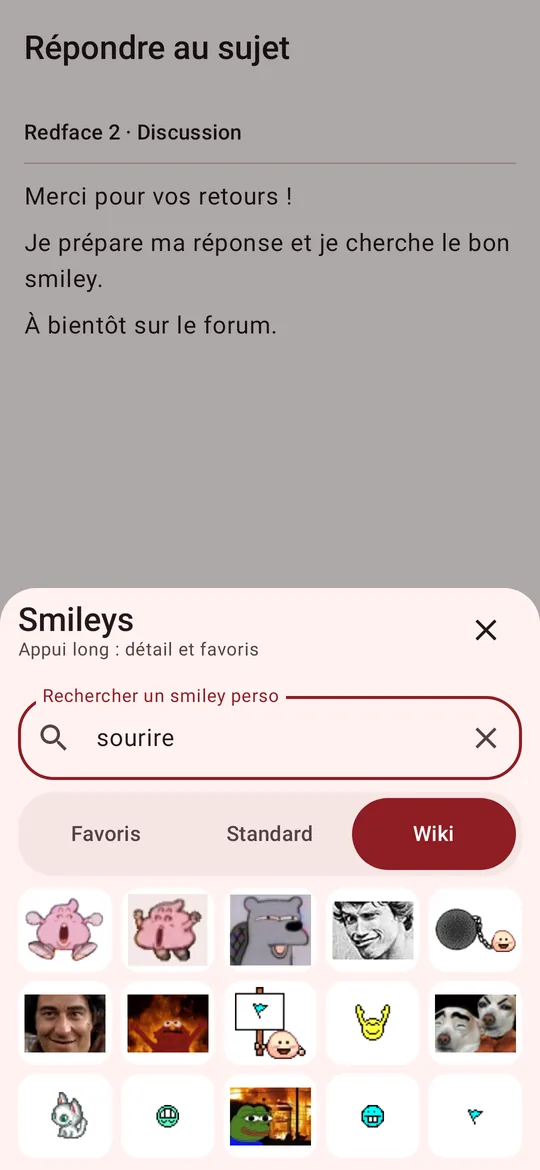
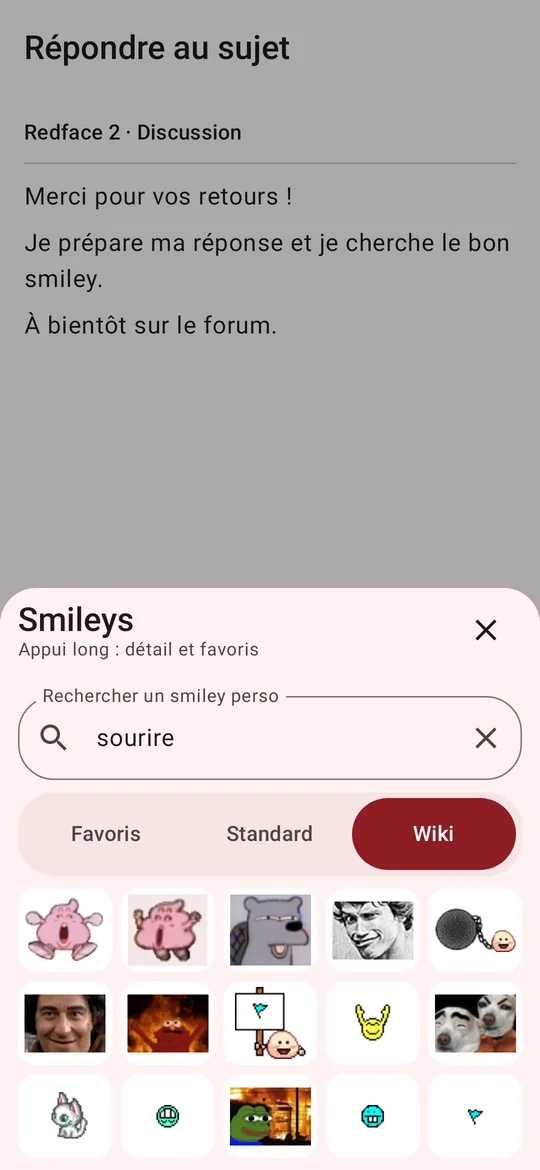
editeur-smileys: Sol complete, 12 scenarios; index card updated (#1417)
Claude-Session: https://claude.ai/code/session_01X7pvomKHW15zFqZ5T6WA6a

diff --git a/editeur-smileys/index.html b/editeur-smileys/index.html
@@ -71,7 +71,7 @@ a:focus-visible,summary:focus-visible{outline:2px solid var(--accent);outline-of
 </ul>
 <h4>Effort pour la production</h4>
 <p>Moyen, environ deux jours : retirer ou rebrancher le réglage « délimitation » et <code>SmileyPickerGrid</code> (spike #989), figer les tailles des builtins en constante plutôt qu&#x27;en sonde, revue TalkBack de la barre, <code>/validate</code> complet, passage S10e, paysage, fontScale 1,3 et AMOLED.</p></div></details></article>
-<article class="author" id="a-sol"><header><h3>Sol 6.1</h3><span class="model">GPT-6.1 Sol</span></header><p class="idea">Une palette de petites cartes, avec la recherche toujours à portée de doigt et les usages fréquents en tête.</p><p class="status">Compile ; 7 scénarios sur 10 : dans le banc, la grille Favoris de cette proposition sort à hauteur nulle (défaut du prototype), d&#x27;où l&#x27;absence de Favoris et du détail.</p><details><summary>Note de conception</summary><div class="note"><p>Une palette de petites cartes, avec la recherche toujours à portée de doigt et les usages fréquents en tête.</p>
+<article class="author" id="a-sol"><header><h3>Sol 6.1</h3><span class="model">GPT-6.1 Sol</span></header><p class="idea">Une palette de petites cartes, avec la recherche toujours à portée de doigt et les usages fréquents en tête.</p><p class="status">Compile ; 12 scénarios rendus ; tous les tests du sélecteur passent (4 fichiers adaptés par Sol). Rendu complété par Opus : le champ de recherche, focalisé à l&#x27;ouverture, basculait la feuille sur Wiki ; seul un toucher ou une saisie choisit désormais Wiki.</p><details><summary>Note de conception</summary><div class="note"><p>Une palette de petites cartes, avec la recherche toujours à portée de doigt et les usages fréquents en tête.</p>
 <ul>
 <li>En-tête nommé, conseil d’appui long et fermeture explicite de 48 dp.</li>
 <li>Recherche permanente, puis trois collections en capsules : Favoris, Standard, Wiki.</li>
@@ -176,16 +176,16 @@ a:focus-visible,summary:focus-visible{outline:2px solid var(--accent);outline-of
 <li>Effort estimé : 2 à 3 jours après choix visuel, pour tests appareil/IME/accessibilité, ajustements issus des captures, traduction des libellés et validation complète du dépôt.</li>
 </ul></div></details></article></div></section>
 <nav class="jump" aria-label="Scénarios"><a href="#s-01">01</a><a href="#s-02">02</a><a href="#s-03">03</a><a href="#s-04">04</a><a href="#s-05">05</a><a href="#s-06">06</a><a href="#s-07">07</a><a href="#s-08">08</a><a href="#s-09">09</a><a href="#s-10">10</a><a href="#extras">+</a></nav>
-<section class="scenario" id="s-01"><h3><span class="num">01</span> Favoris, clair</h3><div class="strip"><figure><a href="img/baseline/01_favoris_light.webp"><img src="img/baseline/01_favoris_light.webp" width="540" height="1170" loading="lazy" alt="Base : Favoris, clair"></a><figcaption>Base</figcaption></figure><figure><a href="img/opus/01_favoris_light.webp"><img src="img/opus/01_favoris_light.webp" width="540" height="1170" loading="lazy" alt="Opus 5.5 : Favoris, clair"></a><figcaption>Opus 5.5</figcaption></figure><figure class="missing"><div>non rendu</div><figcaption>Sol 6.1</figcaption></figure><figure><a href="img/fable/01_favoris_light.webp"><img src="img/fable/01_favoris_light.webp" width="540" height="1170" loading="lazy" alt="Fable : Favoris, clair"></a><figcaption>Fable</figcaption></figure><figure><a href="img/astra/01_favoris_light.webp"><img src="img/astra/01_favoris_light.webp" width="540" height="1170" loading="lazy" alt="Astra : Favoris, clair"></a><figcaption>Astra</figcaption></figure></div></section>
+<section class="scenario" id="s-01"><h3><span class="num">01</span> Favoris, clair</h3><div class="strip"><figure><a href="img/baseline/01_favoris_light.webp"><img src="img/baseline/01_favoris_light.webp" width="540" height="1170" loading="lazy" alt="Base : Favoris, clair"></a><figcaption>Base</figcaption></figure><figure><a href="img/opus/01_favoris_light.webp"><img src="img/opus/01_favoris_light.webp" width="540" height="1170" loading="lazy" alt="Opus 5.5 : Favoris, clair"></a><figcaption>Opus 5.5</figcaption></figure><figure><a href="img/sol/01_favoris_light.webp"><img src="img/sol/01_favoris_light.webp" width="540" height="1170" loading="lazy" alt="Sol 6.1 : Favoris, clair"></a><figcaption>Sol 6.1</figcaption></figure><figure><a href="img/fable/01_favoris_light.webp"><img src="img/fable/01_favoris_light.webp" width="540" height="1170" loading="lazy" alt="Fable : Favoris, clair"></a><figcaption>Fable</figcaption></figure><figure><a href="img/astra/01_favoris_light.webp"><img src="img/astra/01_favoris_light.webp" width="540" height="1170" loading="lazy" alt="Astra : Favoris, clair"></a><figcaption>Astra</figcaption></figure></div></section>
 <section class="scenario" id="s-02"><h3><span class="num">02</span> Standard, clair</h3><div class="strip"><figure><a href="img/baseline/02_standard_light.webp"><img src="img/baseline/02_standard_light.webp" width="540" height="1170" loading="lazy" alt="Base : Standard, clair"></a><figcaption>Base</figcaption></figure><figure><a href="img/opus/02_standard_light.webp"><img src="img/opus/02_standard_light.webp" width="540" height="1170" loading="lazy" alt="Opus 5.5 : Standard, clair"></a><figcaption>Opus 5.5</figcaption></figure><figure><a href="img/sol/02_standard_light.webp"><img src="img/sol/02_standard_light.webp" width="540" height="1170" loading="lazy" alt="Sol 6.1 : Standard, clair"></a><figcaption>Sol 6.1</figcaption></figure><figure><a href="img/fable/02_standard_light.webp"><img src="img/fable/02_standard_light.webp" width="540" height="1170" loading="lazy" alt="Fable : Standard, clair"></a><figcaption>Fable</figcaption></figure><figure><a href="img/astra/02_standard_light.webp"><img src="img/astra/02_standard_light.webp" width="540" height="1170" loading="lazy" alt="Astra : Standard, clair"></a><figcaption>Astra</figcaption></figure></div></section>
 <section class="scenario" id="s-03"><h3><span class="num">03</span> Recherche avec résultats, clair</h3><div class="strip"><figure><a href="img/baseline/03_wiki_results_light.webp"><img src="img/baseline/03_wiki_results_light.webp" width="540" height="1170" loading="lazy" alt="Base : Recherche avec résultats, clair"></a><figcaption>Base</figcaption></figure><figure><a href="img/opus/03_wiki_results_light.webp"><img src="img/opus/03_wiki_results_light.webp" width="540" height="1170" loading="lazy" alt="Opus 5.5 : Recherche avec résultats, clair"></a><figcaption>Opus 5.5</figcaption></figure><figure><a href="img/sol/03_wiki_results_light.webp"><img src="img/sol/03_wiki_results_light.webp" width="540" height="1170" loading="lazy" alt="Sol 6.1 : Recherche avec résultats, clair"></a><figcaption>Sol 6.1</figcaption></figure><figure><a href="img/fable/03_wiki_results_light.webp"><img src="img/fable/03_wiki_results_light.webp" width="540" height="1170" loading="lazy" alt="Fable : Recherche avec résultats, clair"></a><figcaption>Fable</figcaption></figure><figure><a href="img/astra/03_wiki_results_light.webp"><img src="img/astra/03_wiki_results_light.webp" width="540" height="1170" loading="lazy" alt="Astra : Recherche avec résultats, clair"></a><figcaption>Astra</figcaption></figure></div></section>
 <section class="scenario" id="s-04"><h3><span class="num">04</span> Recherche vide, clair</h3><div class="strip"><figure><a href="img/baseline/04_wiki_empty_light.webp"><img src="img/baseline/04_wiki_empty_light.webp" width="540" height="1170" loading="lazy" alt="Base : Recherche vide, clair"></a><figcaption>Base</figcaption></figure><figure><a href="img/opus/04_wiki_empty_light.webp"><img src="img/opus/04_wiki_empty_light.webp" width="540" height="1170" loading="lazy" alt="Opus 5.5 : Recherche vide, clair"></a><figcaption>Opus 5.5</figcaption></figure><figure><a href="img/sol/04_wiki_empty_light.webp"><img src="img/sol/04_wiki_empty_light.webp" width="540" height="1170" loading="lazy" alt="Sol 6.1 : Recherche vide, clair"></a><figcaption>Sol 6.1</figcaption></figure><figure><a href="img/fable/04_wiki_empty_light.webp"><img src="img/fable/04_wiki_empty_light.webp" width="540" height="1170" loading="lazy" alt="Fable : Recherche vide, clair"></a><figcaption>Fable</figcaption></figure><figure><a href="img/astra/04_wiki_empty_light.webp"><img src="img/astra/04_wiki_empty_light.webp" width="540" height="1170" loading="lazy" alt="Astra : Recherche vide, clair"></a><figcaption>Astra</figcaption></figure></div></section>
-<section class="scenario" id="s-05"><h3><span class="num">05</span> Favoris, sombre</h3><div class="strip"><figure><a href="img/baseline/05_favoris_dark.webp"><img src="img/baseline/05_favoris_dark.webp" width="540" height="1170" loading="lazy" alt="Base : Favoris, sombre"></a><figcaption>Base</figcaption></figure><figure><a href="img/opus/05_favoris_dark.webp"><img src="img/opus/05_favoris_dark.webp" width="540" height="1170" loading="lazy" alt="Opus 5.5 : Favoris, sombre"></a><figcaption>Opus 5.5</figcaption></figure><figure class="missing"><div>non rendu</div><figcaption>Sol 6.1</figcaption></figure><figure><a href="img/fable/05_favoris_dark.webp"><img src="img/fable/05_favoris_dark.webp" width="540" height="1170" loading="lazy" alt="Fable : Favoris, sombre"></a><figcaption>Fable</figcaption></figure><figure><a href="img/astra/05_favoris_dark.webp"><img src="img/astra/05_favoris_dark.webp" width="540" height="1170" loading="lazy" alt="Astra : Favoris, sombre"></a><figcaption>Astra</figcaption></figure></div></section>
+<section class="scenario" id="s-05"><h3><span class="num">05</span> Favoris, sombre</h3><div class="strip"><figure><a href="img/baseline/05_favoris_dark.webp"><img src="img/baseline/05_favoris_dark.webp" width="540" height="1170" loading="lazy" alt="Base : Favoris, sombre"></a><figcaption>Base</figcaption></figure><figure><a href="img/opus/05_favoris_dark.webp"><img src="img/opus/05_favoris_dark.webp" width="540" height="1170" loading="lazy" alt="Opus 5.5 : Favoris, sombre"></a><figcaption>Opus 5.5</figcaption></figure><figure><a href="img/sol/05_favoris_dark.webp"><img src="img/sol/05_favoris_dark.webp" width="540" height="1170" loading="lazy" alt="Sol 6.1 : Favoris, sombre"></a><figcaption>Sol 6.1</figcaption></figure><figure><a href="img/fable/05_favoris_dark.webp"><img src="img/fable/05_favoris_dark.webp" width="540" height="1170" loading="lazy" alt="Fable : Favoris, sombre"></a><figcaption>Fable</figcaption></figure><figure><a href="img/astra/05_favoris_dark.webp"><img src="img/astra/05_favoris_dark.webp" width="540" height="1170" loading="lazy" alt="Astra : Favoris, sombre"></a><figcaption>Astra</figcaption></figure></div></section>
 <section class="scenario" id="s-06"><h3><span class="num">06</span> Standard, sombre</h3><div class="strip"><figure><a href="img/baseline/06_standard_dark.webp"><img src="img/baseline/06_standard_dark.webp" width="540" height="1170" loading="lazy" alt="Base : Standard, sombre"></a><figcaption>Base</figcaption></figure><figure><a href="img/opus/06_standard_dark.webp"><img src="img/opus/06_standard_dark.webp" width="540" height="1170" loading="lazy" alt="Opus 5.5 : Standard, sombre"></a><figcaption>Opus 5.5</figcaption></figure><figure><a href="img/sol/06_standard_dark.webp"><img src="img/sol/06_standard_dark.webp" width="540" height="1170" loading="lazy" alt="Sol 6.1 : Standard, sombre"></a><figcaption>Sol 6.1</figcaption></figure><figure><a href="img/fable/06_standard_dark.webp"><img src="img/fable/06_standard_dark.webp" width="540" height="1170" loading="lazy" alt="Fable : Standard, sombre"></a><figcaption>Fable</figcaption></figure><figure><a href="img/astra/06_standard_dark.webp"><img src="img/astra/06_standard_dark.webp" width="540" height="1170" loading="lazy" alt="Astra : Standard, sombre"></a><figcaption>Astra</figcaption></figure></div></section>
 <section class="scenario" id="s-07"><h3><span class="num">07</span> Recherche avec résultats, sombre</h3><div class="strip"><figure><a href="img/baseline/07_wiki_results_dark.webp"><img src="img/baseline/07_wiki_results_dark.webp" width="540" height="1170" loading="lazy" alt="Base : Recherche avec résultats, sombre"></a><figcaption>Base</figcaption></figure><figure><a href="img/opus/07_wiki_results_dark.webp"><img src="img/opus/07_wiki_results_dark.webp" width="540" height="1170" loading="lazy" alt="Opus 5.5 : Recherche avec résultats, sombre"></a><figcaption>Opus 5.5</figcaption></figure><figure><a href="img/sol/07_wiki_results_dark.webp"><img src="img/sol/07_wiki_results_dark.webp" width="540" height="1170" loading="lazy" alt="Sol 6.1 : Recherche avec résultats, sombre"></a><figcaption>Sol 6.1</figcaption></figure><figure><a href="img/fable/07_wiki_results_dark.webp"><img src="img/fable/07_wiki_results_dark.webp" width="540" height="1170" loading="lazy" alt="Fable : Recherche avec résultats, sombre"></a><figcaption>Fable</figcaption></figure><figure><a href="img/astra/07_wiki_results_dark.webp"><img src="img/astra/07_wiki_results_dark.webp" width="540" height="1170" loading="lazy" alt="Astra : Recherche avec résultats, sombre"></a><figcaption>Astra</figcaption></figure></div></section>
-<section class="scenario" id="s-08"><h3><span class="num">08</span> Favoris, texte à 130 %</h3><div class="strip"><figure><a href="img/baseline/08_favoris_fs13_light.webp"><img src="img/baseline/08_favoris_fs13_light.webp" width="540" height="1170" loading="lazy" alt="Base : Favoris, texte à 130 %"></a><figcaption>Base</figcaption></figure><figure><a href="img/opus/08_favoris_fs13_light.webp"><img src="img/opus/08_favoris_fs13_light.webp" width="540" height="1170" loading="lazy" alt="Opus 5.5 : Favoris, texte à 130 %"></a><figcaption>Opus 5.5</figcaption></figure><figure class="missing"><div>non rendu</div><figcaption>Sol 6.1</figcaption></figure><figure><a href="img/fable/08_favoris_fs13_light.webp"><img src="img/fable/08_favoris_fs13_light.webp" width="540" height="1170" loading="lazy" alt="Fable : Favoris, texte à 130 %"></a><figcaption>Fable</figcaption></figure><figure><a href="img/astra/08_favoris_fs13_light.webp"><img src="img/astra/08_favoris_fs13_light.webp" width="540" height="1170" loading="lazy" alt="Astra : Favoris, texte à 130 %"></a><figcaption>Astra</figcaption></figure></div></section>
+<section class="scenario" id="s-08"><h3><span class="num">08</span> Favoris, texte à 130 %</h3><div class="strip"><figure><a href="img/baseline/08_favoris_fs13_light.webp"><img src="img/baseline/08_favoris_fs13_light.webp" width="540" height="1170" loading="lazy" alt="Base : Favoris, texte à 130 %"></a><figcaption>Base</figcaption></figure><figure><a href="img/opus/08_favoris_fs13_light.webp"><img src="img/opus/08_favoris_fs13_light.webp" width="540" height="1170" loading="lazy" alt="Opus 5.5 : Favoris, texte à 130 %"></a><figcaption>Opus 5.5</figcaption></figure><figure><a href="img/sol/08_favoris_fs13_light.webp"><img src="img/sol/08_favoris_fs13_light.webp" width="540" height="1170" loading="lazy" alt="Sol 6.1 : Favoris, texte à 130 %"></a><figcaption>Sol 6.1</figcaption></figure><figure><a href="img/fable/08_favoris_fs13_light.webp"><img src="img/fable/08_favoris_fs13_light.webp" width="540" height="1170" loading="lazy" alt="Fable : Favoris, texte à 130 %"></a><figcaption>Fable</figcaption></figure><figure><a href="img/astra/08_favoris_fs13_light.webp"><img src="img/astra/08_favoris_fs13_light.webp" width="540" height="1170" loading="lazy" alt="Astra : Favoris, texte à 130 %"></a><figcaption>Astra</figcaption></figure></div></section>
 <section class="scenario land" id="s-09"><h3><span class="num">09</span> Standard, paysage</h3><div class="strip"><figure><a href="img/baseline/09_standard_landscape_light.webp"><img src="img/baseline/09_standard_landscape_light.webp" width="540" height="249" loading="lazy" alt="Base : Standard, paysage"></a><figcaption>Base</figcaption></figure><figure><a href="img/opus/09_standard_landscape_light.webp"><img src="img/opus/09_standard_landscape_light.webp" width="540" height="249" loading="lazy" alt="Opus 5.5 : Standard, paysage"></a><figcaption>Opus 5.5</figcaption></figure><figure><a href="img/sol/09_standard_landscape_light.webp"><img src="img/sol/09_standard_landscape_light.webp" width="540" height="249" loading="lazy" alt="Sol 6.1 : Standard, paysage"></a><figcaption>Sol 6.1</figcaption></figure><figure><a href="img/fable/09_standard_landscape_light.webp"><img src="img/fable/09_standard_landscape_light.webp" width="540" height="249" loading="lazy" alt="Fable : Standard, paysage"></a><figcaption>Fable</figcaption></figure><figure><a href="img/astra/09_standard_landscape_light.webp"><img src="img/astra/09_standard_landscape_light.webp" width="540" height="249" loading="lazy" alt="Astra : Standard, paysage"></a><figcaption>Astra</figcaption></figure></div></section>
-<section class="scenario" id="s-10"><h3><span class="num">10</span> Détail à l'appui long</h3><div class="strip"><figure><a href="img/baseline/10_detail_light.webp"><img src="img/baseline/10_detail_light.webp" width="540" height="1170" loading="lazy" alt="Base : Détail à l&#x27;appui long"></a><figcaption>Base</figcaption></figure><figure><a href="img/opus/10_detail_light.webp"><img src="img/opus/10_detail_light.webp" width="540" height="1170" loading="lazy" alt="Opus 5.5 : Détail à l&#x27;appui long"></a><figcaption>Opus 5.5</figcaption></figure><figure class="missing"><div>non rendu</div><figcaption>Sol 6.1</figcaption></figure><figure><a href="img/fable/10_detail_light.webp"><img src="img/fable/10_detail_light.webp" width="540" height="1170" loading="lazy" alt="Fable : Détail à l&#x27;appui long"></a><figcaption>Fable</figcaption></figure><figure><a href="img/astra/10_detail_light.webp"><img src="img/astra/10_detail_light.webp" width="540" height="1170" loading="lazy" alt="Astra : Détail à l&#x27;appui long"></a><figcaption>Astra</figcaption></figure></div></section>
-<section id="extras" class="scenario"><h2>Interactions phares</h2><p class="muted">Scénarios ajoutés par chaque auteur pour montrer ce qui distingue sa proposition.</p><div class="extras"><figure><a href="img/opus/11_wiki_idle_light.webp"><img src="img/opus/11_wiki_idle_light.webp" width="540" height="1170" loading="lazy" alt="Opus 5.5 : wiki idle light"></a><figcaption>Opus 5.5 · wiki idle light</figcaption></figure><figure><a href="img/opus/12_detail_dark.webp"><img src="img/opus/12_detail_dark.webp" width="540" height="1170" loading="lazy" alt="Opus 5.5 : detail dark"></a><figcaption>Opus 5.5 · detail dark</figcaption></figure><figure><a href="img/sol/11_wiki_error_light.webp"><img src="img/sol/11_wiki_error_light.webp" width="540" height="1170" loading="lazy" alt="Sol 6.1 : wiki error light"></a><figcaption>Sol 6.1 · wiki error light</figcaption></figure><figure><a href="img/fable/11_recherche_locale_light.webp"><img src="img/fable/11_recherche_locale_light.webp" width="540" height="1170" loading="lazy" alt="Fable : recherche locale light"></a><figcaption>Fable · recherche locale light</figcaption></figure><figure><a href="img/fable/12_favoris_amoled.webp"><img src="img/fable/12_favoris_amoled.webp" width="540" height="1170" loading="lazy" alt="Fable : favoris amoled"></a><figcaption>Fable · favoris amoled</figcaption></figure><figure><a href="img/astra/11_collection_hfr_light.webp"><img src="img/astra/11_collection_hfr_light.webp" width="540" height="1170" loading="lazy" alt="Astra : collection hfr light"></a><figcaption>Astra · collection hfr light</figcaption></figure><figure><a href="img/astra/12_favoris_amoled.webp"><img src="img/astra/12_favoris_amoled.webp" width="540" height="1170" loading="lazy" alt="Astra : favoris amoled"></a><figcaption>Astra · favoris amoled</figcaption></figure></div></section>
+<section class="scenario" id="s-10"><h3><span class="num">10</span> Détail à l'appui long</h3><div class="strip"><figure><a href="img/baseline/10_detail_light.webp"><img src="img/baseline/10_detail_light.webp" width="540" height="1170" loading="lazy" alt="Base : Détail à l&#x27;appui long"></a><figcaption>Base</figcaption></figure><figure><a href="img/opus/10_detail_light.webp"><img src="img/opus/10_detail_light.webp" width="540" height="1170" loading="lazy" alt="Opus 5.5 : Détail à l&#x27;appui long"></a><figcaption>Opus 5.5</figcaption></figure><figure><a href="img/sol/10_detail_light.webp"><img src="img/sol/10_detail_light.webp" width="540" height="1170" loading="lazy" alt="Sol 6.1 : Détail à l&#x27;appui long"></a><figcaption>Sol 6.1</figcaption></figure><figure><a href="img/fable/10_detail_light.webp"><img src="img/fable/10_detail_light.webp" width="540" height="1170" loading="lazy" alt="Fable : Détail à l&#x27;appui long"></a><figcaption>Fable</figcaption></figure><figure><a href="img/astra/10_detail_light.webp"><img src="img/astra/10_detail_light.webp" width="540" height="1170" loading="lazy" alt="Astra : Détail à l&#x27;appui long"></a><figcaption>Astra</figcaption></figure></div></section>
+<section id="extras" class="scenario"><h2>Interactions phares</h2><p class="muted">Scénarios ajoutés par chaque auteur pour montrer ce qui distingue sa proposition.</p><div class="extras"><figure><a href="img/opus/11_wiki_idle_light.webp"><img src="img/opus/11_wiki_idle_light.webp" width="540" height="1170" loading="lazy" alt="Opus 5.5 : wiki idle light"></a><figcaption>Opus 5.5 · wiki idle light</figcaption></figure><figure><a href="img/opus/12_detail_dark.webp"><img src="img/opus/12_detail_dark.webp" width="540" height="1170" loading="lazy" alt="Opus 5.5 : detail dark"></a><figcaption>Opus 5.5 · detail dark</figcaption></figure><figure><a href="img/sol/11_wiki_error_light.webp"><img src="img/sol/11_wiki_error_light.webp" width="540" height="1170" loading="lazy" alt="Sol 6.1 : wiki error light"></a><figcaption>Sol 6.1 · wiki error light</figcaption></figure><figure><a href="img/sol/12_favoris_amoled.webp"><img src="img/sol/12_favoris_amoled.webp" width="540" height="1170" loading="lazy" alt="Sol 6.1 : favoris amoled"></a><figcaption>Sol 6.1 · favoris amoled</figcaption></figure><figure><a href="img/fable/11_recherche_locale_light.webp"><img src="img/fable/11_recherche_locale_light.webp" width="540" height="1170" loading="lazy" alt="Fable : recherche locale light"></a><figcaption>Fable · recherche locale light</figcaption></figure><figure><a href="img/fable/12_favoris_amoled.webp"><img src="img/fable/12_favoris_amoled.webp" width="540" height="1170" loading="lazy" alt="Fable : favoris amoled"></a><figcaption>Fable · favoris amoled</figcaption></figure><figure><a href="img/astra/11_collection_hfr_light.webp"><img src="img/astra/11_collection_hfr_light.webp" width="540" height="1170" loading="lazy" alt="Astra : collection hfr light"></a><figcaption>Astra · collection hfr light</figcaption></figure><figure><a href="img/astra/12_favoris_amoled.webp"><img src="img/astra/12_favoris_amoled.webp" width="540" height="1170" loading="lazy" alt="Astra : favoris amoled"></a><figcaption>Astra · favoris amoled</figcaption></figure></div></section>
 </main>
 </body></html>

diff --git a/index.html b/index.html
@@ -29,9 +29,9 @@
   <p class="sub">Rapports et galeries visuelles non sensibles, publiés au fil de l'eau. Données fictives ou publiques uniquement.</p>
   <div class="grid">
     <a class="card" href="./editeur-smileys/">
-      <div class="cdate">2026-11-14 · v1</div>
+      <div class="cdate">2026-11-14 · v2</div>
       <h2>Feuille smileys — quatre propositions</h2>
-      <p>Retour sur la hauteur commune des onglets du sélecteur (#1630), puis quatre propositions d'UI et d'UX rendues côte à côte sur le même banc Roborazzi (S10e, vrais smileys HFR) : <b>Opus</b> « palette au pouce », <b>Sol</b> recherche permanente et cartes tonales, <b>Fable</b> « clavier à smileys » sans onglets, <b>Astra</b> « bibliothèque de poche ». Dix scénarios communs, clair, sombre, texte à 130 %, paysage et détail ; Sol partiel (Favoris non rendus). Prototypes non mergés.</p>
+      <p>Retour sur la hauteur commune des onglets du sélecteur (#1630), puis quatre propositions d'UI et d'UX rendues côte à côte sur le même banc Roborazzi (S10e, vrais smileys HFR) : <b>Opus</b> « palette au pouce », <b>Sol</b> recherche permanente et cartes tonales, <b>Fable</b> « clavier à smileys » sans onglets, <b>Astra</b> « bibliothèque de poche ». Dix scénarios communs (clair, sombre, texte à 130 %, paysage, détail) et deux interactions phares par auteur. Prototypes non mergés.</p>
       <span class="go">Ouvrir &rsaquo;</span>
     </a>
     <a class="card" href="./editeur-options/">
